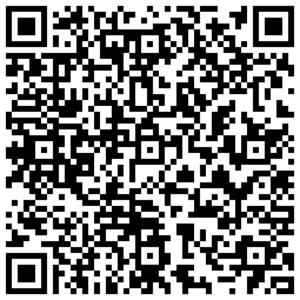
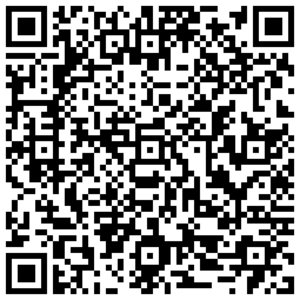
Update free configs - 2025-03-30

diff --git a/README.md b/README.md
@@ -1,6 +1,6 @@
 # 文档下方有很多可直接导入使用的高速节点/二维码订阅
 
-<p align='center'><strong>2025-03-29 12点准时更新每日免费节点，更多机场VPN优惠信息：<a href="https://vpn.tg10000.com">vpn.tg10000.com</a></strong></p>
+<p align='center'><strong>2025-03-30 12点准时更新每日免费节点，更多机场VPN优惠信息：<a href="https://vpn.tg10000.com">vpn.tg10000.com</a></strong></p>
 <p align='center'><strong>Telegram群:<a href="https://t.me/freevpn">@freevpntg</a></strong></p>
 
 
@@ -60,120 +60,120 @@
 
 <p align='center'><img src='img/1.png' alt='QR Code' width='300'></p>
 
-<p align='center'><code>ss://Y2hhY2hhMjAtaWV0Zi1wb2x5MTMwNTpiMDE1NmJmNy1jYWEyLTQ3NzgtYjQxNi05ZmM4MmZiODUzMDk=@free.2weradf.xyz:36141#0%7C%F0%9F%87%AD%F0%9F%87%B0%20%E9%A6%99%E6%B8%AF%2001%20%7C%201x%20HK</code></p>
+<p align='center'><code>ss://Y2hhY2hhMjAtaWV0Zi1wb2x5MTMwNToyZTFjNzg1Zi0zNGE3LTRjZGEtYjc5YS1hNDViNDRjNmMwZGY=@free.2apzhfa.xyz:31141#0%7C%F0%9F%87%AD%F0%9F%87%B0%E9%A6%99%E6%B8%AF%2001%20%7C%201x%20HK</code></p>
 
 <p align='center'><img src='img/2.png' alt='QR Code' width='300'></p>
 
-<p align='center'><code>ss://Y2hhY2hhMjAtaWV0Zi1wb2x5MTMwNTpiMDE1NmJmNy1jYWEyLTQ3NzgtYjQxNi05ZmM4MmZiODUzMDk=@free.2weradf.xyz:36143#0%7C%F0%9F%87%AD%F0%9F%87%B0%20%E9%A6%99%E6%B8%AF%2002%20%7C%201x%20HK</code></p>
+<p align='center'><code>ss://Y2hhY2hhMjAtaWV0Zi1wb2x5MTMwNToyZTFjNzg1Zi0zNGE3LTRjZGEtYjc5YS1hNDViNDRjNmMwZGY=@free.2apzhfa.xyz:31143#0%7C%F0%9F%87%AD%F0%9F%87%B0%E9%A6%99%E6%B8%AF%2002%20%7C%201x%20HK</code></p>
 
 <p align='center'><img src='img/3.png' alt='QR Code' width='300'></p>
 
-<p align='center'><code>ss://Y2hhY2hhMjAtaWV0Zi1wb2x5MTMwNTpiMDE1NmJmNy1jYWEyLTQ3NzgtYjQxNi05ZmM4MmZiODUzMDk=@free.2weradf.xyz:36145#0%7C%F0%9F%87%AD%F0%9F%87%B0%20%E9%A6%99%E6%B8%AF%E4%BD%8F%E5%AE%85IP%2003%20%7C%201x%20HK</code></p>
+<p align='center'><code>ss://Y2hhY2hhMjAtaWV0Zi1wb2x5MTMwNToyZTFjNzg1Zi0zNGE3LTRjZGEtYjc5YS1hNDViNDRjNmMwZGY=@free.2apzhfa.xyz:31145#0%7C%F0%9F%87%AD%F0%9F%87%B0%E9%A6%99%E6%B8%AF%E5%AE%B6%E5%AE%BD%2003%20%7C%201x%20HK</code></p>
 
 <p align='center'><img src='img/4.png' alt='QR Code' width='300'></p>
 
-<p align='center'><code>ss://Y2hhY2hhMjAtaWV0Zi1wb2x5MTMwNTpiMDE1NmJmNy1jYWEyLTQ3NzgtYjQxNi05ZmM4MmZiODUzMDk=@free.2weradf.xyz:36241#0%7C%F0%9F%87%B9%F0%9F%87%BC%20%E5%8F%B0%E6%B9%BE%2001%20%7C%201x%20TW</code></p>
+<p align='center'><code>ss://Y2hhY2hhMjAtaWV0Zi1wb2x5MTMwNToyZTFjNzg1Zi0zNGE3LTRjZGEtYjc5YS1hNDViNDRjNmMwZGY=@free.2apzhfa.xyz:31241#0%7C%F0%9F%87%B9%F0%9F%87%BC%E5%8F%B0%E6%B9%BE%2001%20%7C%201x%20TW</code></p>
 
 <p align='center'><img src='img/5.png' alt='QR Code' width='300'></p>
 
-<p align='center'><code>ss://Y2hhY2hhMjAtaWV0Zi1wb2x5MTMwNTpiMDE1NmJmNy1jYWEyLTQ3NzgtYjQxNi05ZmM4MmZiODUzMDk=@free.2weradf.xyz:36243#0%7C%F0%9F%87%B9%F0%9F%87%BC%20%E5%8F%B0%E6%B9%BE%2002%20%7C%201x%20TW</code></p>
+<p align='center'><code>ss://Y2hhY2hhMjAtaWV0Zi1wb2x5MTMwNToyZTFjNzg1Zi0zNGE3LTRjZGEtYjc5YS1hNDViNDRjNmMwZGY=@free.2apzhfa.xyz:31243#0%7C%F0%9F%87%B9%F0%9F%87%BC%E5%8F%B0%E6%B9%BE%2002%20%7C%201x%20TW</code></p>
 
 <p align='center'><img src='img/6.png' alt='QR Code' width='300'></p>
 
-<p align='center'><code>ss://Y2hhY2hhMjAtaWV0Zi1wb2x5MTMwNTpiMDE1NmJmNy1jYWEyLTQ3NzgtYjQxNi05ZmM4MmZiODUzMDk=@free.2weradf.xyz:36245#0%7C%F0%9F%87%B9%F0%9F%87%BC%20%E5%8F%B0%E6%B9%BE%2003%20%7C%201x%20TW</code></p>
+<p align='center'><code>ss://Y2hhY2hhMjAtaWV0Zi1wb2x5MTMwNToyZTFjNzg1Zi0zNGE3LTRjZGEtYjc5YS1hNDViNDRjNmMwZGY=@free.2apzhfa.xyz:31245#0%7C%F0%9F%87%B9%F0%9F%87%BC%E5%8F%B0%E6%B9%BE%2003%20%7C%201x%20TW</code></p>
 
 <p align='center'><img src='img/7.png' alt='QR Code' width='300'></p>
 
-<p align='center'><code>ss://Y2hhY2hhMjAtaWV0Zi1wb2x5MTMwNTpiMDE1NmJmNy1jYWEyLTQ3NzgtYjQxNi05ZmM4MmZiODUzMDk=@free.2weradf.xyz:36111#0%7C%F0%9F%87%AF%F0%9F%87%B5%20%E6%97%A5%E6%9C%AC%2001%20%7C%201x%20JP</code></p>
+<p align='center'><code>ss://Y2hhY2hhMjAtaWV0Zi1wb2x5MTMwNToyZTFjNzg1Zi0zNGE3LTRjZGEtYjc5YS1hNDViNDRjNmMwZGY=@free.2apzhfa.xyz:31111#0%7C%F0%9F%87%AF%F0%9F%87%B5%E6%97%A5%E6%9C%AC%2001%20%7C%201x%20JP</code></p>
 
 <p align='center'><img src='img/8.png' alt='QR Code' width='300'></p>
 
-<p align='center'><code>ss://Y2hhY2hhMjAtaWV0Zi1wb2x5MTMwNTpiMDE1NmJmNy1jYWEyLTQ3NzgtYjQxNi05ZmM4MmZiODUzMDk=@free.2weradf.xyz:36113#0%7C%F0%9F%87%AF%F0%9F%87%B5%20%E6%97%A5%E6%9C%AC%2002%20%7C%201x%20JP</code></p>
+<p align='center'><code>ss://Y2hhY2hhMjAtaWV0Zi1wb2x5MTMwNToyZTFjNzg1Zi0zNGE3LTRjZGEtYjc5YS1hNDViNDRjNmMwZGY=@free.2apzhfa.xyz:31113#0%7C%F0%9F%87%AF%F0%9F%87%B5%E6%97%A5%E6%9C%AC%2002%20%7C%201x%20JP</code></p>
 
 <p align='center'><img src='img/9.png' alt='QR Code' width='300'></p>
 
-<p align='center'><code>ss://Y2hhY2hhMjAtaWV0Zi1wb2x5MTMwNTpiMDE1NmJmNy1jYWEyLTQ3NzgtYjQxNi05ZmM4MmZiODUzMDk=@free.2weradf.xyz:36115#0%7C%F0%9F%87%AF%F0%9F%87%B5%20%E6%97%A5%E6%9C%AC%2003%20%7C%201x%20JP</code></p>
+<p align='center'><code>ss://Y2hhY2hhMjAtaWV0Zi1wb2x5MTMwNToyZTFjNzg1Zi0zNGE3LTRjZGEtYjc5YS1hNDViNDRjNmMwZGY=@free.2apzhfa.xyz:31115#0%7C%F0%9F%87%AF%F0%9F%87%B5%E6%97%A5%E6%9C%AC%2003%20%7C%201x%20JP</code></p>
 
 <p align='center'><img src='img/10.png' alt='QR Code' width='300'></p>
 
-<p align='center'><code>ss://Y2hhY2hhMjAtaWV0Zi1wb2x5MTMwNTpiMDE1NmJmNy1jYWEyLTQ3NzgtYjQxNi05ZmM4MmZiODUzMDk=@free.2weradf.xyz:36171#0%7C%F0%9F%87%B8%F0%9F%87%AC%20%E6%96%B0%E5%8A%A0%E5%9D%A1%2001%20%7C%201x%20SG</code></p>
+<p align='center'><code>ss://Y2hhY2hhMjAtaWV0Zi1wb2x5MTMwNToyZTFjNzg1Zi0zNGE3LTRjZGEtYjc5YS1hNDViNDRjNmMwZGY=@free.2apzhfa.xyz:31171#0%7C%F0%9F%87%B8%F0%9F%87%AC%E6%96%B0%E5%8A%A0%E5%9D%A1%2001%20%7C%201x%20SG</code></p>
 
 <p align='center'><img src='img/11.png' alt='QR Code' width='300'></p>
 
-<p align='center'><code>ss://Y2hhY2hhMjAtaWV0Zi1wb2x5MTMwNTpiMDE1NmJmNy1jYWEyLTQ3NzgtYjQxNi05ZmM4MmZiODUzMDk=@free.2weradf.xyz:36173#0%7C%F0%9F%87%B8%F0%9F%87%AC%20%E6%96%B0%E5%8A%A0%E5%9D%A1%2002%20%7C%201x%20SG</code></p>
+<p align='center'><code>ss://Y2hhY2hhMjAtaWV0Zi1wb2x5MTMwNToyZTFjNzg1Zi0zNGE3LTRjZGEtYjc5YS1hNDViNDRjNmMwZGY=@free.2apzhfa.xyz:31173#0%7C%F0%9F%87%B8%F0%9F%87%AC%E6%96%B0%E5%8A%A0%E5%9D%A1%2002%20%7C%201x%20SG</code></p>
 
 <p align='center'><img src='img/12.png' alt='QR Code' width='300'></p>
 
-<p align='center'><code>ss://Y2hhY2hhMjAtaWV0Zi1wb2x5MTMwNTpiMDE1NmJmNy1jYWEyLTQ3NzgtYjQxNi05ZmM4MmZiODUzMDk=@free.2weradf.xyz:36175#0%7C%F0%9F%87%B8%F0%9F%87%AC%20%E6%96%B0%E5%8A%A0%E5%9D%A1%2003%20%7C%201x%20SG</code></p>
+<p align='center'><code>ss://Y2hhY2hhMjAtaWV0Zi1wb2x5MTMwNToyZTFjNzg1Zi0zNGE3LTRjZGEtYjc5YS1hNDViNDRjNmMwZGY=@free.2apzhfa.xyz:31175#0%7C%F0%9F%87%B8%F0%9F%87%AC%E6%96%B0%E5%8A%A0%E5%9D%A1%2003%20%7C%201x%20SG</code></p>
 
 <p align='center'><img src='img/13.png' alt='QR Code' width='300'></p>
 
-<p align='center'><code>ss://Y2hhY2hhMjAtaWV0Zi1wb2x5MTMwNTpiMDE1NmJmNy1jYWEyLTQ3NzgtYjQxNi05ZmM4MmZiODUzMDk=@free.2weradf.xyz:36311#0%7C%F0%9F%87%B0%F0%9F%87%B7%20%E9%9F%A9%E5%9B%BD%2001%20%7C%201x%20KR</code></p>
+<p align='center'><code>ss://Y2hhY2hhMjAtaWV0Zi1wb2x5MTMwNToyZTFjNzg1Zi0zNGE3LTRjZGEtYjc5YS1hNDViNDRjNmMwZGY=@free.2apzhfa.xyz:31311#0%7C%F0%9F%87%B0%F0%9F%87%B7%E9%9F%A9%E5%9B%BD%2001%20%7C%201x%20KR</code></p>
 
 <p align='center'><img src='img/14.png' alt='QR Code' width='300'></p>
 
-<p align='center'><code>ss://Y2hhY2hhMjAtaWV0Zi1wb2x5MTMwNTpiMDE1NmJmNy1jYWEyLTQ3NzgtYjQxNi05ZmM4MmZiODUzMDk=@free.2weradf.xyz:36313#0%7C%F0%9F%87%B0%F0%9F%87%B7%20%E9%9F%A9%E5%9B%BD%2002%20%7C%201x%20KR</code></p>
+<p align='center'><code>ss://Y2hhY2hhMjAtaWV0Zi1wb2x5MTMwNToyZTFjNzg1Zi0zNGE3LTRjZGEtYjc5YS1hNDViNDRjNmMwZGY=@free.2apzhfa.xyz:31313#0%7C%F0%9F%87%B0%F0%9F%87%B7%E9%9F%A9%E5%9B%BD%2002%20%7C%201x%20KR</code></p>
 
 <p align='center'><img src='img/15.png' alt='QR Code' width='300'></p>
 
-<p align='center'><code>ss://Y2hhY2hhMjAtaWV0Zi1wb2x5MTMwNTpiMDE1NmJmNy1jYWEyLTQ3NzgtYjQxNi05ZmM4MmZiODUzMDk=@free.2weradf.xyz:36341#0%7C%F0%9F%87%B5%F0%9F%87%AD%20%E8%8F%B2%E5%BE%8B%E5%AE%BE%2001%20%7C%201x%20PH</code></p>
+<p align='center'><code>ss://Y2hhY2hhMjAtaWV0Zi1wb2x5MTMwNToyZTFjNzg1Zi0zNGE3LTRjZGEtYjc5YS1hNDViNDRjNmMwZGY=@free.2apzhfa.xyz:31341#0%7C%F0%9F%87%B5%F0%9F%87%AD%E8%8F%B2%E5%BE%8B%E5%AE%BE%2001%20%7C%201x%20PH</code></p>
 
 <p align='center'><img src='img/16.png' alt='QR Code' width='300'></p>
 
-<p align='center'><code>ss://Y2hhY2hhMjAtaWV0Zi1wb2x5MTMwNTpiMDE1NmJmNy1jYWEyLTQ3NzgtYjQxNi05ZmM4MmZiODUzMDk=@free.2weradf.xyz:36211#0%7C%F0%9F%87%BA%F0%9F%87%B8%20%E7%BE%8E%E5%9B%BD%2001%20%7C%201x%20US%20Los%20Angeles</code></p>
+<p align='center'><code>ss://Y2hhY2hhMjAtaWV0Zi1wb2x5MTMwNToyZTFjNzg1Zi0zNGE3LTRjZGEtYjc5YS1hNDViNDRjNmMwZGY=@free.2apzhfa.xyz:31211#0%7C%F0%9F%87%BA%F0%9F%87%B8%E7%BE%8E%E5%9B%BD%2001%20%7C%201x%20US%20Los%20Angeles</code></p>
 
 <p align='center'><img src='img/17.png' alt='QR Code' width='300'></p>
 
-<p align='center'><code>ss://Y2hhY2hhMjAtaWV0Zi1wb2x5MTMwNTpiMDE1NmJmNy1jYWEyLTQ3NzgtYjQxNi05ZmM4MmZiODUzMDk=@free.2weradf.xyz:36213#0%7C%F0%9F%87%BA%F0%9F%87%B8%20%E7%BE%8E%E5%9B%BD%E4%BD%8F%E5%AE%85IP%2002%20%7C%201x%20US%20Los%20Angel...</code></p>
+<p align='center'><code>ss://Y2hhY2hhMjAtaWV0Zi1wb2x5MTMwNToyZTFjNzg1Zi0zNGE3LTRjZGEtYjc5YS1hNDViNDRjNmMwZGY=@free.2apzhfa.xyz:31213#0%7C%F0%9F%87%BA%F0%9F%87%B8%E7%BE%8E%E5%9B%BD%E5%AE%B6%E5%AE%BD%2002%20%7C%201x%20US%20Los%20Angeles</code></p>
 
 <p align='center'><img src='img/18.png' alt='QR Code' width='300'></p>
 
-<p align='center'><code>ss://Y2hhY2hhMjAtaWV0Zi1wb2x5MTMwNTpiMDE1NmJmNy1jYWEyLTQ3NzgtYjQxNi05ZmM4MmZiODUzMDk=@free.2weradf.xyz:36215#0%7C%F0%9F%87%BA%F0%9F%87%B8%20%E7%BE%8E%E5%9B%BD%2003%20%7C%201x%20US%20Washington</code></p>
+<p align='center'><code>ss://Y2hhY2hhMjAtaWV0Zi1wb2x5MTMwNToyZTFjNzg1Zi0zNGE3LTRjZGEtYjc5YS1hNDViNDRjNmMwZGY=@free.2apzhfa.xyz:31215#0%7C%F0%9F%87%BA%F0%9F%87%B8%E7%BE%8E%E5%9B%BD%2003%20%7C%201x%20US%20Washington</code></p>
 
 <p align='center'><img src='img/19.png' alt='QR Code' width='300'></p>
 
-<p align='center'><code>ss://Y2hhY2hhMjAtaWV0Zi1wb2x5MTMwNTpiMDE1NmJmNy1jYWEyLTQ3NzgtYjQxNi05ZmM4MmZiODUzMDk=@free.2weradf.xyz:36271#0%7C%F0%9F%87%AC%F0%9F%87%A7%20%E8%8B%B1%E5%9B%BD%E4%BD%8F%E5%AE%85IP%2001%20%7C%201x%20UK</code></p>
+<p align='center'><code>ss://Y2hhY2hhMjAtaWV0Zi1wb2x5MTMwNToyZTFjNzg1Zi0zNGE3LTRjZGEtYjc5YS1hNDViNDRjNmMwZGY=@free.2apzhfa.xyz:31271#0%7C%F0%9F%87%AC%F0%9F%87%A7%E8%8B%B1%E5%9B%BD%E5%AE%B6%E5%AE%BD%2001%20%7C%201x%20UK</code></p>
 
 <p align='center'><img src='img/20.png' alt='QR Code' width='300'></p>
 
-<p align='center'><code>ss://Y2hhY2hhMjAtaWV0Zi1wb2x5MTMwNTpiMDE1NmJmNy1jYWEyLTQ3NzgtYjQxNi05ZmM4MmZiODUzMDk=@free.2weradf.xyz:36721#0%7C%F0%9F%87%B2%F0%9F%87%BE%E9%A9%AC%E6%9D%A5%E8%A5%BF%E4%BA%9A%2001%20%7C%201x%20MY</code></p>
+<p align='center'><code>ss://Y2hhY2hhMjAtaWV0Zi1wb2x5MTMwNToyZTFjNzg1Zi0zNGE3LTRjZGEtYjc5YS1hNDViNDRjNmMwZGY=@free.2apzhfa.xyz:31741#0%7C%F0%9F%87%B9%F0%9F%87%AD%E6%B3%B0%E5%9B%BD01%20%20%7C%201x%20TH</code></p>
 
 <p align='center'><img src='img/21.png' alt='QR Code' width='300'></p>
 
-<p align='center'><code>ss://Y2hhY2hhMjAtaWV0Zi1wb2x5MTMwNTpiMDE1NmJmNy1jYWEyLTQ3NzgtYjQxNi05ZmM4MmZiODUzMDk=@free.2weradf.xyz:36741#0%7C%F0%9F%87%AE%F0%9F%87%B3%E8%A5%BF%E7%8F%AD%E7%89%99%2001%20%7C%201x%20ES</code></p>
+<p align='center'><code>ss://Y2hhY2hhMjAtaWV0Zi1wb2x5MTMwNToyZTFjNzg1Zi0zNGE3LTRjZGEtYjc5YS1hNDViNDRjNmMwZGY=@free.2apzhfa.xyz:31721#0%7C%F0%9F%87%B2%F0%9F%87%BE%E9%A9%AC%E6%9D%A5%E8%A5%BF%E4%BA%9A01%20%7C%201x%20MY</code></p>
 
 <p align='center'><img src='img/22.png' alt='QR Code' width='300'></p>
 
-<p align='center'><code>ss://Y2hhY2hhMjAtaWV0Zi1wb2x5MTMwNTpiMDE1NmJmNy1jYWEyLTQ3NzgtYjQxNi05ZmM4MmZiODUzMDk=@free.2weradf.xyz:36731#0%7C%F0%9F%87%B9%F0%9F%87%AD%E6%B3%B0%E5%9B%BD%2001%20%7C%201x%20TH</code></p>
+<p align='center'><code>ss://Y2hhY2hhMjAtaWV0Zi1wb2x5MTMwNToyZTFjNzg1Zi0zNGE3LTRjZGEtYjc5YS1hNDViNDRjNmMwZGY=@free.2apzhfa.xyz:31371#0%7C%F0%9F%87%AE%F0%9F%87%B3%E5%8D%B0%E5%BA%A6%2001%20%7C%201x%20IN</code></p>
 
 <p align='center'><img src='img/23.png' alt='QR Code' width='300'></p>
 
-<p align='center'><code>ss://Y2hhY2hhMjAtaWV0Zi1wb2x5MTMwNTpiMDE1NmJmNy1jYWEyLTQ3NzgtYjQxNi05ZmM4MmZiODUzMDk=@free.2weradf.xyz:36371#0%7C%F0%9F%87%AE%F0%9F%87%B3%20%E5%8D%B0%E5%BA%A6%2001%20%7C%201x%20IN</code></p>
+<p align='center'><code>ss://Y2hhY2hhMjAtaWV0Zi1wb2x5MTMwNToyZTFjNzg1Zi0zNGE3LTRjZGEtYjc5YS1hNDViNDRjNmMwZGY=@free.2apzhfa.xyz:31411#0%7C%F0%9F%87%A6%F0%9F%87%BA%E6%BE%B3%E5%A4%A7%E5%88%A9%E4%BA%9A%2001%20%7C%201x%20AU</code></p>
 
 <p align='center'><img src='img/24.png' alt='QR Code' width='300'></p>
 
-<p align='center'><code>ss://Y2hhY2hhMjAtaWV0Zi1wb2x5MTMwNTpiMDE1NmJmNy1jYWEyLTQ3NzgtYjQxNi05ZmM4MmZiODUzMDk=@free.2weradf.xyz:36411#0%7C%F0%9F%87%A6%F0%9F%87%BA%20%E6%BE%B3%E5%A4%A7%E5%88%A9%E4%BA%9A%2001%20%7C%201x%20AU</code></p>
+<p align='center'><code>ss://Y2hhY2hhMjAtaWV0Zi1wb2x5MTMwNToyZTFjNzg1Zi0zNGE3LTRjZGEtYjc5YS1hNDViNDRjNmMwZGY=@free.2apzhfa.xyz:31441#0%7C%F0%9F%87%A8%F0%9F%87%A6%E5%8A%A0%E6%8B%BF%E5%A4%A7%2001%20%7C%201x%20CA</code></p>
 
 <p align='center'><img src='img/25.png' alt='QR Code' width='300'></p>
 
-<p align='center'><code>ss://Y2hhY2hhMjAtaWV0Zi1wb2x5MTMwNTpiMDE1NmJmNy1jYWEyLTQ3NzgtYjQxNi05ZmM4MmZiODUzMDk=@free.2weradf.xyz:36441#0%7C%F0%9F%87%A8%F0%9F%87%A6%20%E5%8A%A0%E6%8B%BF%E5%A4%A7%2001%20%7C%201x%20CA</code></p>
+<p align='center'><code>ss://Y2hhY2hhMjAtaWV0Zi1wb2x5MTMwNToyZTFjNzg1Zi0zNGE3LTRjZGEtYjc5YS1hNDViNDRjNmMwZGY=@free.2apzhfa.xyz:31471#0%7C%F0%9F%87%A9%F0%9F%87%AA%E5%BE%B7%E5%9B%BD%2001%20%7C%201x%20DE</code></p>
 
 <p align='center'><img src='img/26.png' alt='QR Code' width='300'></p>
 
-<p align='center'><code>ss://Y2hhY2hhMjAtaWV0Zi1wb2x5MTMwNTpiMDE1NmJmNy1jYWEyLTQ3NzgtYjQxNi05ZmM4MmZiODUzMDk=@free.2weradf.xyz:36471#0%7C%F0%9F%87%A9%F0%9F%87%AA%20%E5%BE%B7%E5%9B%BD%2001%20%7C%201x%20DE</code></p>
+<p align='center'><code>ss://Y2hhY2hhMjAtaWV0Zi1wb2x5MTMwNToyZTFjNzg1Zi0zNGE3LTRjZGEtYjc5YS1hNDViNDRjNmMwZGY=@free.2apzhfa.xyz:31511#0%7C%F0%9F%87%B7%F0%9F%87%BA%E4%BF%84%E7%BD%97%E6%96%AF%2001%20%7C%201x%20RU</code></p>
 
 <p align='center'><img src='img/27.png' alt='QR Code' width='300'></p>
 
-<p align='center'><code>ss://Y2hhY2hhMjAtaWV0Zi1wb2x5MTMwNTpiMDE1NmJmNy1jYWEyLTQ3NzgtYjQxNi05ZmM4MmZiODUzMDk=@free.2weradf.xyz:36511#0%7C%F0%9F%87%B7%F0%9F%87%BA%20%E4%BF%84%E7%BD%97%E6%96%AF%2001%20%7C%201x%20RU</code></p>
+<p align='center'><code>ss://Y2hhY2hhMjAtaWV0Zi1wb2x5MTMwNToyZTFjNzg1Zi0zNGE3LTRjZGEtYjc5YS1hNDViNDRjNmMwZGY=@free.2apzhfa.xyz:31571#0%7C%F0%9F%87%B9%F0%9F%87%B7%E5%9C%9F%E8%80%B3%E5%85%B6%2001%20%7C%201x%20TR</code></p>
 
 <p align='center'><img src='img/28.png' alt='QR Code' width='300'></p>
 
-<p align='center'><code>ss://Y2hhY2hhMjAtaWV0Zi1wb2x5MTMwNTpiMDE1NmJmNy1jYWEyLTQ3NzgtYjQxNi05ZmM4MmZiODUzMDk=@free.2weradf.xyz:36571#0%7C%F0%9F%87%B9%F0%9F%87%B7%20%E5%9C%9F%E8%80%B3%E5%85%B6%2001%20%7C%201x%20TR</code></p>
+<p align='center'><code>ss://Y2hhY2hhMjAtaWV0Zi1wb2x5MTMwNToyZTFjNzg1Zi0zNGE3LTRjZGEtYjc5YS1hNDViNDRjNmMwZGY=@free.2apzhfa.xyz:31611#0%7C%F0%9F%87%BA%F0%9F%87%A6%E4%B9%8C%E5%85%8B%E5%85%B0%2001%20%7C%201x%20UA</code></p>
 
 <p align='center'><img src='img/29.png' alt='QR Code' width='300'></p>
 
-<p align='center'><code>ss://Y2hhY2hhMjAtaWV0Zi1wb2x5MTMwNTpiMDE1NmJmNy1jYWEyLTQ3NzgtYjQxNi05ZmM4MmZiODUzMDk=@free.2weradf.xyz:36611#0%7C%F0%9F%87%BA%F0%9F%87%A6%20%E4%B9%8C%E5%85%8B%E5%85%B0%2001%20%7C%201x%20UA</code></p>
+<p align='center'><code>ss://Y2hhY2hhMjAtaWV0Zi1wb2x5MTMwNToyZTFjNzg1Zi0zNGE3LTRjZGEtYjc5YS1hNDViNDRjNmMwZGY=@free.2apzhfa.xyz:31641#0%7C%F0%9F%87%BB%F0%9F%87%B3%E8%B6%8A%E5%8D%97%2001%20%7C%201x%20VN</code></p>
 
 <p align='center'><img src='img/30.png' alt='QR Code' width='300'></p>
 
-<p align='center'><code>ss://Y2hhY2hhMjAtaWV0Zi1wb2x5MTMwNTpiMDE1NmJmNy1jYWEyLTQ3NzgtYjQxNi05ZmM4MmZiODUzMDk=@free.2weradf.xyz:36641#0%7C%F0%9F%87%BB%F0%9F%87%B3%20%E8%B6%8A%E5%8D%97%2001%20%7C%201x%20VN</code></p>
+<p align='center'><code>ss://Y2hhY2hhMjAtaWV0Zi1wb2x5MTMwNToyZTFjNzg1Zi0zNGE3LTRjZGEtYjc5YS1hNDViNDRjNmMwZGY=@free.2apzhfa.xyz:31671#0%7C%F0%9F%87%A7%F0%9F%87%B7%E5%B7%B4%E8%A5%BF%2001%20%7C%201x%20BR</code></p>
